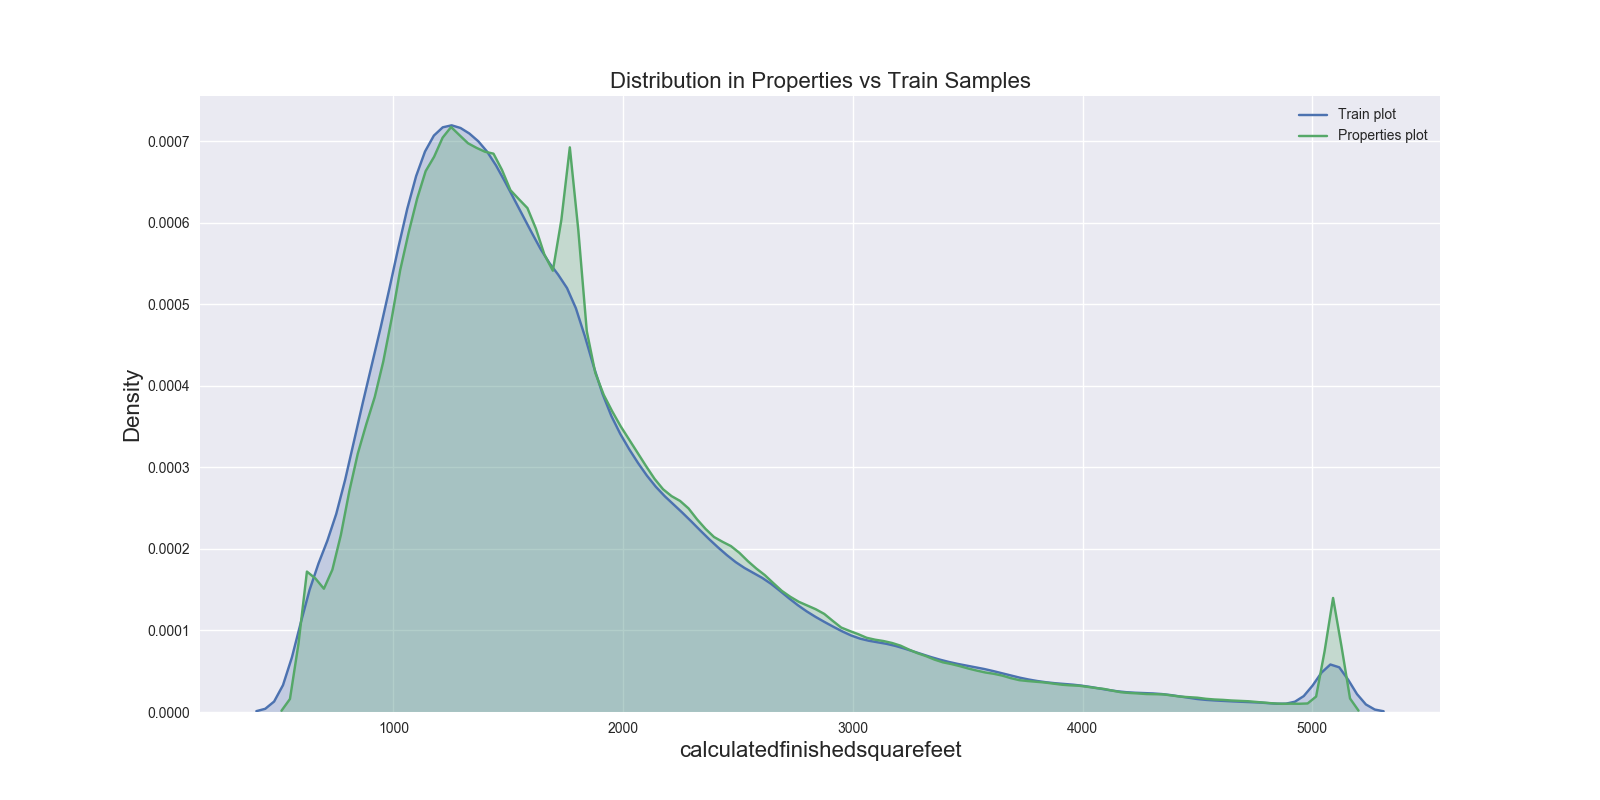
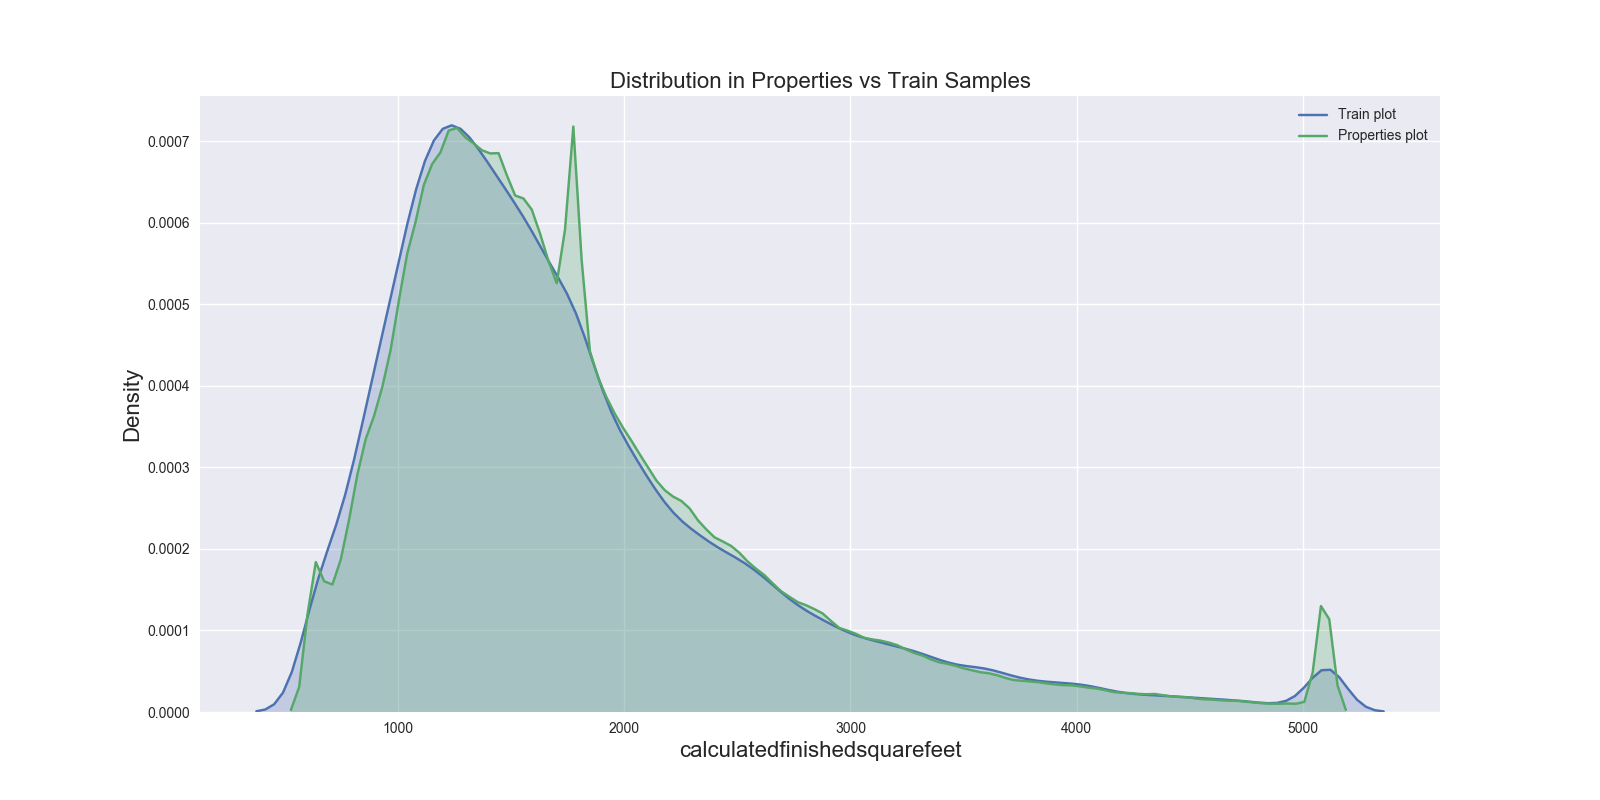
load train , do train test split

diff --git a/data_loader.py b/data_loader.py
@@ -3,6 +3,71 @@ import numpy as np
 import gc
 
 from data_exploration import visualize_distribution
+from sklearn.model_selection import train_test_split
+
+def load_train_split_test():
+    # Load the Datasets #
+    # We need to load the datasets that will be needed to train our machine learning algorithms,
+    #  handle our data and make predictions.
+    # Note that these datasets are the ones that are already provided once you enter the
+    # competition by accepting terms and conditions
+
+    train_2016 = pd.read_csv('./data/train_2016_v2.csv', parse_dates=["transactiondate"])
+    properties_2016 = pd.read_csv('./data/properties_2016.csv')
+
+    train_2017 = pd.read_csv('./data/train_2017.csv', parse_dates=["transactiondate"])
+    properties_2017 = pd.read_csv('./data/properties_2017.csv')
+
+    train_temp = [train_2016, train_2017]
+    properties_temp = [properties_2016, properties_2017]
+    train = pd.concat(train_temp)
+    properties = pd.concat(properties_temp)
+
+    # Analyse the Dimensions of our Datasets.
+    print("Training Size:" + str(train.shape))
+    print("Property Size:" + str(properties.shape))
+
+    # Type Converting the DataSet
+    # The processing of some of the algorithms can be made quick if data
+    # representation is made in int/float32 instead of int/float64.
+    # Therefore, in order to make sure that all of our columns types are in
+    # float32, we are implementing the following lines of code #
+
+
+    for c, dtype in zip(properties.columns, properties.dtypes):
+        if dtype == np.float64:
+            properties[c] = properties[c].astype(np.float32)
+        if dtype == np.int64:
+            properties[c] = properties[c].astype(np.int32)
+
+    for column in train.columns:
+        if train[column].dtype == int:
+            train[column] = train[column].astype(np.int32)
+        if train[column].dtype == float:
+            train[column] = train[column].astype(np.float32)
+
+    ###Merging the Datasets ###
+    # We are merging the properties dataset with training and testing dataset for
+    #  model building and testing prediction #
+
+    # train_merged = train.merge(properties, how='left', on='parcelid')
+    train_merged = train.merge(properties.drop_duplicates('parcelid'), how='left')
+
+    ## Splitting the data into train test - 70 % train , 30 % test
+
+    df_train, df_test = train_test_split(train_merged, test_size = 0.30, random_state = 42)
+
+    # visualize_distribution(properties,df_train,'calculatedfinishedsquarefeet')
+    # visualize_distribution(properties,df_test,'calculatedfinishedsquarefeet')
+    #
+    # visualize_distribution(properties, df_train, 'structuretaxvaluedollarcnt')
+    # visualize_distribution(properties, df_test, 'structuretaxvaluedollarcnt')
+
+    ### Remove previous variables to keep some memory
+    del properties, train,train_merged
+    gc.collect()
+
+    return df_train, df_test
 
 def load_full_data():
 
@@ -57,8 +122,8 @@ def load_full_data():
     ###Merging the Datasets ###
     # We are merging the properties dataset with training and testing dataset for model building and testing prediction #
 
-    df_train = train.merge(properties, how='left', on='parcelid')
-    df_test = test.merge(properties, how='left', on='parcelid')
+    df_train = train.merge(properties.drop_duplicates('parcelid'), how='left')
+    df_test = test.merge(properties.drop_duplicates('parcelid'), how='left')
 
     visualize_distribution(properties,df_train,'calculatedfinishedsquarefeet')
     visualize_distribution(properties, df_train, 'structuretaxvaluedollarcnt')

diff --git a/base_code.py b/base_code.py
@@ -27,8 +27,9 @@ def main():
 
     # Step1 :- Load the data and visualize distributions
     # df_train, df_test = load_full_data()
-    df_train, df_test = load_2016_data()
+    # df_train, df_test = load_2016_data()
     # df_train, df_test = load_small_data()
+    df_train,df_test = load_train_split_test()
 
     # Step 2 : Data Exploration
     # data_exploration(df_train)
